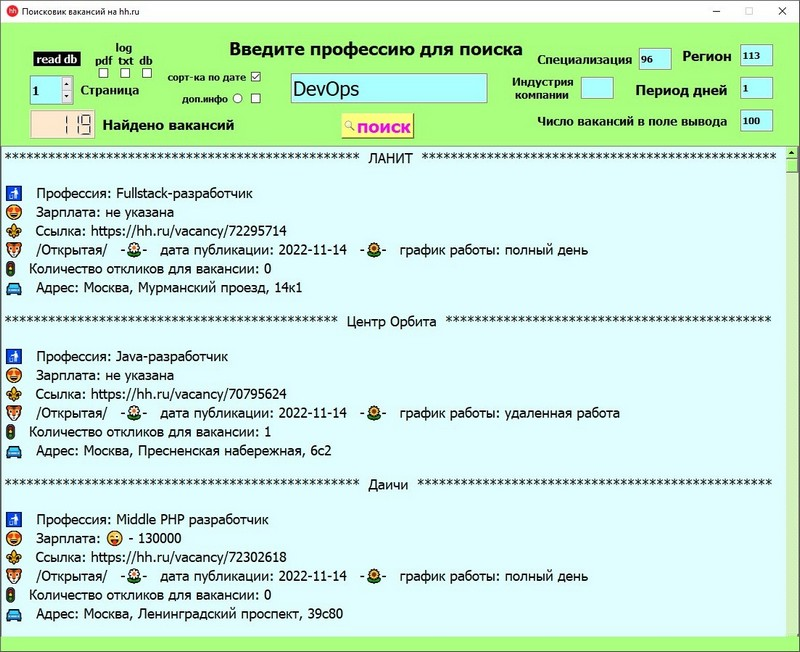
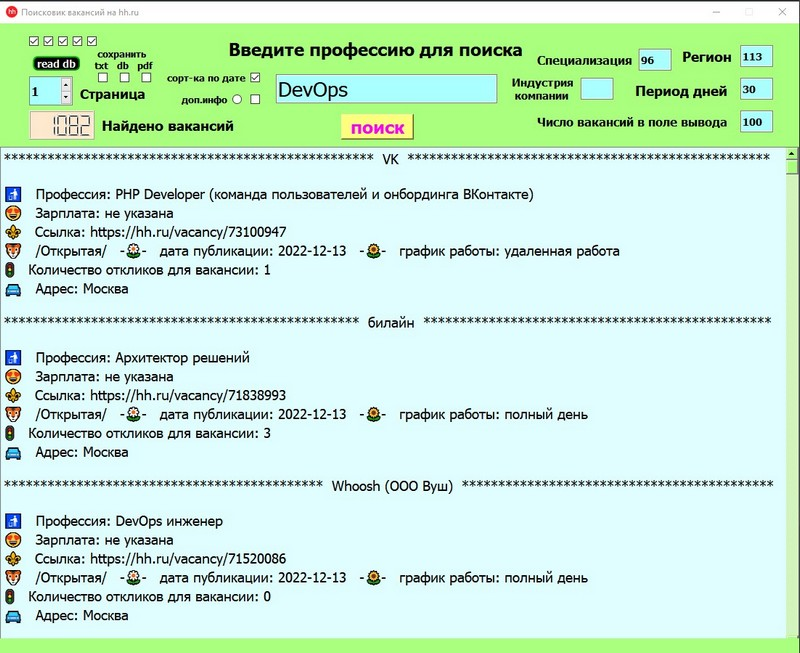
добавил выбор графика работы (checkbox_6-10), доп.инфо

Changed region(s): [[0.0, 0.0, 1.0, 1.0], [0.875, 0.0, 1.0, 0.0307]]

diff --git a/gui.py b/gui.py
@@ -34,6 +34,7 @@ class UiMainWindow(object):
                                         "border-style: outset; border-radius: 7px;"
                                         "border-color: green; border-width: 2px;")
         self.pushButton_2.setObjectName("pushButton_2")
+        self.pushButton_2.setToolTip(definition_readDB)
         font.setPixelSize(14)
         self.pushButton_2.setFont(font)
         self.label_2 = QtWidgets.QLabel(self.centralwidget)
@@ -62,7 +63,7 @@ class UiMainWindow(object):
         self.label_6.setFont(font)
         self.label_6.setObjectName("label_6")
         self.label_7 = QtWidgets.QLabel(self.centralwidget)
-        self.label_7.setGeometry(QtCore.QRect(110, 77, 265, 30))
+        self.label_7.setGeometry(QtCore.QRect(110, 82, 265, 30))
         font.setPixelSize(18)
         self.label_7.setFont(font)
         self.label_7.setObjectName("label_7")
@@ -76,14 +77,14 @@ class UiMainWindow(object):
         self.label_9.setFont(font)
         self.label_9.setObjectName("label_9")
         self.label_10 = QtWidgets.QLabel(self.centralwidget)
-        self.label_10.setGeometry(QtCore.QRect(705, 70, 85, 40))
-        font.setPixelSize(15)
+        self.label_10.setGeometry(QtCore.QRect(130, 32, 90, 35))
         self.label_10.setFont(font)
-        self.label_10.setObjectName("label_10")
+        self.label_10.setObjectName("label_11")
         self.label_11 = QtWidgets.QLabel(self.centralwidget)
-        self.label_11.setGeometry(QtCore.QRect(130, 25, 80, 35))
+        self.label_11.setGeometry(QtCore.QRect(705, 70, 85, 40))
+        font.setPixelSize(15)
         self.label_11.setFont(font)
-        self.label_11.setObjectName("label_11")
+        self.label_11.setObjectName("label_10")
         self.lcdNumber = QtWidgets.QLCDNumber(self.centralwidget)
         self.lcdNumber.setGeometry(QtCore.QRect(40, 120, 90, 40))
         font.setPixelSize(28)
@@ -98,6 +99,7 @@ class UiMainWindow(object):
         self.lineEdit.setStyleSheet("background-color: rgb(170, 255, 255);")
         self.lineEdit.setObjectName("lineEdit")
         self.lineEdit.setText('DevOps')
+        self.lineEdit.setToolTip(definition_search)
         self.lineEdit_2 = QtWidgets.QLineEdit(self.centralwidget)
         self.lineEdit_2.setGeometry(QtCore.QRect(1020, 30, 45, 30))
         font = QtGui.QFont()
@@ -121,12 +123,14 @@ class UiMainWindow(object):
         self.lineEdit_4.setStyleSheet("background-color: rgb(170, 255, 255);")
         self.lineEdit_4.setObjectName("lineEdit_4")
         self.lineEdit_4.setText('100')
+        self.lineEdit_4.setToolTip(definition_field)
         self.lineEdit_5 = QtWidgets.QLineEdit(self.centralwidget)
         self.lineEdit_5.setGeometry(QtCore.QRect(1020, 75, 45, 30))
         self.lineEdit_5.setFont(font)
         self.lineEdit_5.setStyleSheet("background-color: rgb(170, 255, 255);")
         self.lineEdit_5.setObjectName("lineEdit_5")
         self.lineEdit_5.setText('30')
+        self.lineEdit_5.setToolTip(definition_days)
         self.lineEdit_6 = QtWidgets.QLineEdit(self.centralwidget)
         self.lineEdit_6.setGeometry(QtCore.QRect(800, 75, 45, 30))
         self.lineEdit_6.setFont(font)
@@ -152,14 +156,37 @@ class UiMainWindow(object):
         self.checkbox_2.setGeometry(QtCore.QRect(345, 65, 20, 20))
         self.checkbox_2.setChecked(False)
         self.checkbox_3 = QtWidgets.QCheckBox(self.centralwidget)
-        self.checkbox_3.setGeometry(QtCore.QRect(135, 60, 20, 20))
+        self.checkbox_3.setGeometry(QtCore.QRect(135, 65, 20, 20))
         self.checkbox_3.setChecked(False)
+        self.checkbox_3.setToolTip(definition_txt)
         self.checkbox_4 = QtWidgets.QCheckBox(self.centralwidget)
-        self.checkbox_4.setGeometry(QtCore.QRect(165, 60, 20, 20))
+        self.checkbox_4.setGeometry(QtCore.QRect(165, 65, 20, 20))
         self.checkbox_4.setChecked(False)
+        self.checkbox_4.setToolTip(definition_db)
         self.checkbox_5 = QtWidgets.QCheckBox(self.centralwidget)
-        self.checkbox_5.setGeometry(QtCore.QRect(195, 60, 20, 20))
+        self.checkbox_5.setGeometry(QtCore.QRect(195, 65, 20, 20))
         self.checkbox_5.setChecked(False)
+        self.checkbox_5.setToolTip(definition_pdf)
+        self.checkbox_6 = QtWidgets.QCheckBox(self.centralwidget)
+        self.checkbox_6.setGeometry(QtCore.QRect(120, 15, 20, 20))
+        self.checkbox_6.setChecked(True)
+        self.checkbox_6.setToolTip(definition_fullDay)
+        self.checkbox_7 = QtWidgets.QCheckBox(self.centralwidget)
+        self.checkbox_7.setGeometry(QtCore.QRect(100, 15, 20, 20))
+        self.checkbox_7.setChecked(True)
+        self.checkbox_7.setToolTip(definition_remote)
+        self.checkbox_8 = QtWidgets.QCheckBox(self.centralwidget)
+        self.checkbox_8.setGeometry(QtCore.QRect(80, 15, 20, 20))
+        self.checkbox_8.setChecked(True)
+        self.checkbox_8.setToolTip(definition_flyInFlyOut)
+        self.checkbox_9 = QtWidgets.QCheckBox(self.centralwidget)
+        self.checkbox_9.setGeometry(QtCore.QRect(60, 15, 20, 20))
+        self.checkbox_9.setChecked(True)
+        self.checkbox_9.setToolTip(definition_shift)
+        self.checkbox_10 = QtWidgets.QCheckBox(self.centralwidget)
+        self.checkbox_10.setGeometry(QtCore.QRect(40, 15, 20, 20))
+        self.checkbox_10.setChecked(True)
+        self.checkbox_10.setToolTip(definition_flexible)
         self.textBrowser = QtWidgets.QTextBrowser(self.centralwidget)
         self.textBrowser.setGeometry(QtCore.QRect(0, 170, 1101, 691))
         font = QtGui.QFont()
@@ -187,5 +214,5 @@ class UiMainWindow(object):
         self.label_7.setText("Страница")
         self.label_8.setText("доп.инфо")
         self.label_9.setText("сорт-ка по дате")
-        self.label_10.setText("Индустрия\n компании")
-        self.label_11.setText(" " * 7 + "log\ntxt  db  pdf")
+        self.label_10.setText(" сохранить\ntxt   db   pdf")
+        self.label_11.setText("Индустрия\n компании")

diff --git a/parser.py b/parser.py
@@ -38,9 +38,8 @@ class MyWin(QtWidgets.QMainWindow, Database):
         """
         self.ui.textBrowser.clear()
         period = self.ui.lineEdit_5.displayText()
-        professional_role = ''
-        if len(self.ui.lineEdit_3.displayText().strip()) > 0:
-            professional_role = '&professional_role=' + str(self.ui.lineEdit_3.displayText())
+        professional_role = '&professional_role=' + str(self.ui.lineEdit_3.displayText()) if len(
+            self.ui.lineEdit_3.displayText().strip()) > 0 else ''
         text_profession = '&text=' + self.ui.lineEdit.displayText()
         page = self.ui.spinBox.value()
         if page == 0:
@@ -50,17 +49,20 @@ class MyWin(QtWidgets.QMainWindow, Database):
             self.text_vacancies = self.ui.lineEdit.displayText()
         count = self.ui.lineEdit_4.displayText()
         area = self.ui.lineEdit_2.displayText()
-        publication_time = ''
-        industry = ''
-        if len(self.ui.lineEdit_6.displayText().strip()) > 0:
-            industry = '&industry=' + str(self.ui.lineEdit_6.displayText())
-        if self.ui.checkbox_2.isChecked():
-            publication_time = 'order_by=publication_time&'
-        # '&employer_id=3083859' идентификатор компании Сталь
+        checkbox = [self.ui.checkbox_6.isChecked(), self.ui.checkbox_7.isChecked(),
+                    self.ui.checkbox_8.isChecked(), self.ui.checkbox_9.isChecked(),
+                    self.ui.checkbox_10.isChecked()]
+        day = [f'&schedule={i}' for i in ['fullDay', 'remote', 'flyInFlyOut', 'shift', 'flexible']]
+        checkbox_schedule = list(filter(lambda x: x[0], list(zip(checkbox, day))))
+        schedule_id = '' if len(checkbox_schedule) == len(checkbox) else ''.join(i[1] for i in
+                                                                                 checkbox_schedule)
+        industry = '&industry=' + str(self.ui.lineEdit_6.displayText()) if len(
+            self.ui.lineEdit_6.displayText().strip()) > 0 else ''
+        publication_time = 'order_by=publication_time&' if self.ui.checkbox_2.isChecked() else ''
         url = (f'https://api.hh.ru/vacancies?clusters=true&st=searchVacancy&enable_snippets=true&'
                f'{publication_time}period={period}&only_with_salary=false{professional_role}'
                f'{text_profession}&page={page}&per_page={count}&area={area}{industry}'
-               f'&responses_count_enabled=true')
+               f'&responses_count_enabled=true{schedule_id}')
 
         if self.extract_jobs:
             page = int(page) + 1

diff --git a/information.py b/information.py
@@ -115,3 +115,45 @@ industry = """
  389  Управление многопрофильными активами
  ******************************************************************************
 """
+definition_search = """
+Введите профессию для поиска
+примеры:
+парикмахер
+учитель истории 50000
+где 50000 это желаемый уровень зарплаты
+"""
+definition_field = """
+Минимальное значение: 1
+Максимальное значение: 100
+"""
+definition_days = """
+Минимальное значение: 1
+Максимальное значение: 30
+"""
+definition_readDB = """
+Прочитать с сохраненной базы данных
+"""
+definition_pdf = """
+Сохранить в формате pdf
+"""
+definition_db = """
+Сохранить в формате db
+"""
+definition_txt = """
+Сохранить в формате txt
+"""
+definition_fullDay = """
+Полный день
+"""
+definition_remote = """
+Удаленная работа
+"""
+definition_flyInFlyOut = """
+Вахтовый метод
+"""
+definition_shift = """
+Сменный график
+"""
+definition_flexible = """
+Гибкий график
+"""
